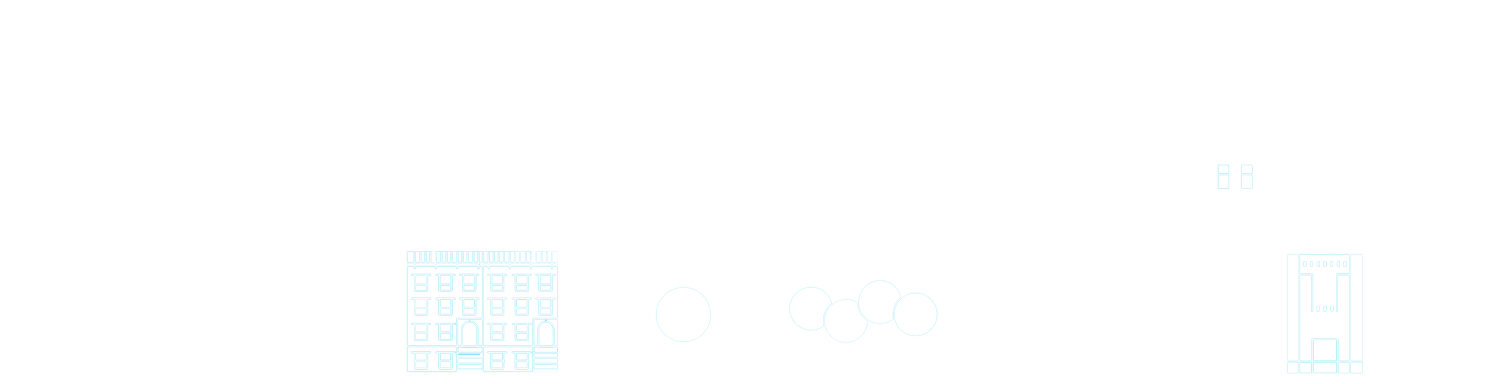
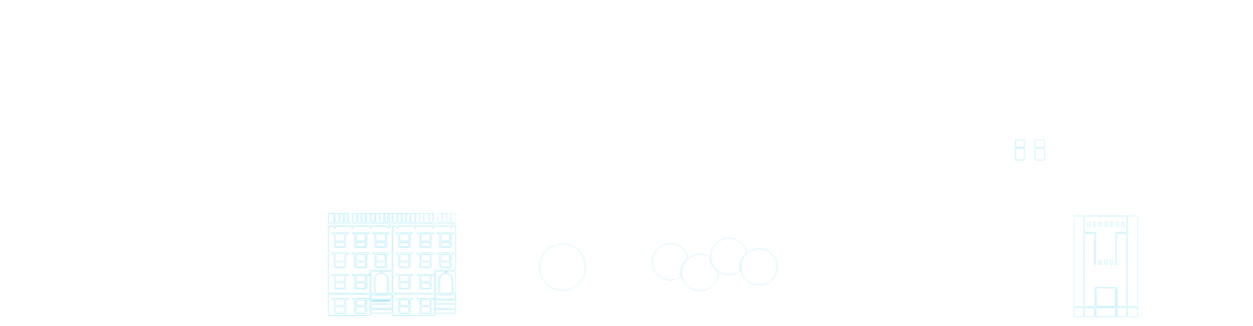
Corregido bug background

diff --git a/docs/styles.73cd79b76adcfca7a7a2.css b/docs/styles.73cd79b76adcfca7a7a2.css
@@ -1,0 +1,1 @@
+body{overflow-x:hidden!important}.city{background-image:url(bg.bcf0d3a65b3835d8e366.png);background-repeat:no-repeat;background-size:contain;background-position-x:center;background-position-y:bottom}.bgf-purple{background-color:#8072c7}.bgf-blue{background-color:#1aa5dc}.bgf-red{background-color:#e64f3a}.bgf-yellow{background-color:#ebc13e}.content{min-height:100vh!important;position:absolute;top:0;left:0;z-index:-10;padding-bottom:20px}@font-face{font-family:"Gotham Light Regular";src:url('Gotham Light Regular.f76e3adf545b3299f643.otf')}@font-face{font-family:"Kalam Bold";src:url(Kalam-Bold.48ff0ed83c465dd63cbb.ttf)}@font-face{font-family:"Kalam Light";src:url(Kalam-Light.146d65d55c0084a5e972.ttf)}@font-face{font-family:"Kalam Regular";src:url(Kalam-Regular.60d781fbca075dc7f5f0.ttf)}.top{z-index:10!important}@-webkit-keyframes bounce{20%,53%,80%,from,to{-webkit-animation-timing-function:cubic-bezier(.215,.61,.355,1);animation-timing-function:cubic-bezier(.215,.61,.355,1);transform:translate3d(0,0,0)}40%,43%{-webkit-animation-timing-function:cubic-bezier(.755,.05,.855,.06);animation-timing-function:cubic-bezier(.755,.05,.855,.06);transform:translate3d(0,-30px,0)}70%{-webkit-animation-timing-function:cubic-bezier(.755,.05,.855,.06);animation-timing-function:cubic-bezier(.755,.05,.855,.06);transform:translate3d(0,-15px,0)}90%{transform:translate3d(0,-4px,0)}}@keyframes bounce{20%,53%,80%,from,to{-webkit-animation-timing-function:cubic-bezier(.215,.61,.355,1);animation-timing-function:cubic-bezier(.215,.61,.355,1);transform:translate3d(0,0,0)}40%,43%{-webkit-animation-timing-function:cubic-bezier(.755,.05,.855,.06);animation-timing-function:cubic-bezier(.755,.05,.855,.06);transform:translate3d(0,-30px,0)}70%{-webkit-animation-timing-function:cubic-bezier(.755,.05,.855,.06);animation-timing-function:cubic-bezier(.755,.05,.855,.06);transform:translate3d(0,-15px,0)}90%{transform:translate3d(0,-4px,0)}}.bounce{-webkit-animation-name:bounce;animation-name:bounce;transform-origin:center bottom}@-webkit-keyframes flash{50%,from,to{opacity:1}25%,75%{opacity:0}}@keyframes flash{50%,from,to{opacity:1}25%,75%{opacity:0}}.flash{-webkit-animation-name:flash;animation-name:flash}@-webkit-keyframes pulse{from,to{transform:scale3d(1,1,1)}50%{transform:scale3d(1.05,1.05,1.05)}}@keyframes pulse{from,to{transform:scale3d(1,1,1)}50%{transform:scale3d(1.05,1.05,1.05)}}.pulse{-webkit-animation-name:pulse;animation-name:pulse}@-webkit-keyframes rubberBand{from,to{transform:scale3d(1,1,1)}30%{transform:scale3d(1.25,.75,1)}40%{transform:scale3d(.75,1.25,1)}50%{transform:scale3d(1.15,.85,1)}65%{transform:scale3d(.95,1.05,1)}75%{transform:scale3d(1.05,.95,1)}}@keyframes rubberBand{from,to{transform:scale3d(1,1,1)}30%{transform:scale3d(1.25,.75,1)}40%{transform:scale3d(.75,1.25,1)}50%{transform:scale3d(1.15,.85,1)}65%{transform:scale3d(.95,1.05,1)}75%{transform:scale3d(1.05,.95,1)}}.rubberBand{-webkit-animation-name:rubberBand;animation-name:rubberBand}@-webkit-keyframes shake{from,to{transform:translate3d(0,0,0)}10%,30%,50%,70%,90%{transform:translate3d(-10px,0,0)}20%,40%,60%,80%{transform:translate3d(10px,0,0)}}@keyframes shake{from,to{transform:translate3d(0,0,0)}10%,30%,50%,70%,90%{transform:translate3d(-10px,0,0)}20%,40%,60%,80%{transform:translate3d(10px,0,0)}}.shake{-webkit-animation-name:shake;animation-name:shake}@-webkit-keyframes headShake{0%{transform:translateX(0)}6.5%{transform:translateX(-6px) rotateY(-9deg)}18.5%{transform:translateX(5px) rotateY(7deg)}31.5%{transform:translateX(-3px) rotateY(-5deg)}43.5%{transform:translateX(2px) rotateY(3deg)}50%{transform:translateX(0)}}@keyframes headShake{0%{transform:translateX(0)}6.5%{transform:translateX(-6px) rotateY(-9deg)}18.5%{transform:translateX(5px) rotateY(7deg)}31.5%{transform:translateX(-3px) rotateY(-5deg)}43.5%{transform:translateX(2px) rotateY(3deg)}50%{transform:translateX(0)}}.headShake{-webkit-animation-timing-function:ease-in-out;animation-timing-function:ease-in-out;-webkit-animation-name:headShake;animation-name:headShake}@-webkit-keyframes swing{20%{transform:rotate3d(0,0,1,15deg)}40%{transform:rotate3d(0,0,1,-10deg)}60%{transform:rotate3d(0,0,1,5deg)}80%{transform:rotate3d(0,0,1,-5deg)}to{transform:rotate3d(0,0,1,0deg)}}@keyframes swing{20%{transform:rotate3d(0,0,1,15deg)}40%{transform:rotate3d(0,0,1,-10deg)}60%{transform:rotate3d(0,0,1,5deg)}80%{transform:rotate3d(0,0,1,-5deg)}to{transform:rotate3d(0,0,1,0deg)}}.swing{transform-origin:top center;-webkit-animation-name:swing;animation-name:swing}@-webkit-keyframes tada{from,to{transform:scale3d(1,1,1)}10%,20%{transform:scale3d(.9,.9,.9) rotate3d(0,0,1,-3deg)}30%,50%,70%,90%{transform:scale3d(1.1,1.1,1.1) rotate3d(0,0,1,3deg)}40%,60%,80%{transform:scale3d(1.1,1.1,1.1) rotate3d(0,0,1,-3deg)}}@keyframes tada{from,to{transform:scale3d(1,1,1)}10%,20%{transform:scale3d(.9,.9,.9) rotate3d(0,0,1,-3deg)}30%,50%,70%,90%{transform:scale3d(1.1,1.1,1.1) rotate3d(0,0,1,3deg)}40%,60%,80%{transform:scale3d(1.1,1.1,1.1) rotate3d(0,0,1,-3deg)}}.tada{-webkit-animation-name:tada;animation-name:tada}@-webkit-keyframes wobble{from,to{transform:translate3d(0,0,0)}15%{transform:translate3d(-25%,0,0) rotate3d(0,0,1,-5deg)}30%{transform:translate3d(20%,0,0) rotate3d(0,0,1,3deg)}45%{transform:translate3d(-15%,0,0) rotate3d(0,0,1,-3deg)}60%{transform:translate3d(10%,0,0) rotate3d(0,0,1,2deg)}75%{transform:translate3d(-5%,0,0) rotate3d(0,0,1,-1deg)}}@keyframes wobble{from,to{transform:translate3d(0,0,0)}15%{transform:translate3d(-25%,0,0) rotate3d(0,0,1,-5deg)}30%{transform:translate3d(20%,0,0) rotate3d(0,0,1,3deg)}45%{transform:translate3d(-15%,0,0) rotate3d(0,0,1,-3deg)}60%{transform:translate3d(10%,0,0) rotate3d(0,0,1,2deg)}75%{transform:translate3d(-5%,0,0) rotate3d(0,0,1,-1deg)}}.wobble{-webkit-animation-name:wobble;animation-name:wobble}@-webkit-keyframes jello{11.1%,from,to{transform:translate3d(0,0,0)}22.2%{transform:skewX(-12.5deg) skewY(-12.5deg)}33.3%{transform:skewX(6.25deg) skewY(6.25deg)}44.4%{transform:skewX(-3.125deg) skewY(-3.125deg)}55.5%{transform:skewX(1.5625deg) skewY(1.5625deg)}66.6%{transform:skewX(-.78125deg) skewY(-.78125deg)}77.7%{transform:skewX(.390625deg) skewY(.390625deg)}88.8%{transform:skewX(-.1953125deg) skewY(-.1953125deg)}}@keyframes jello{11.1%,from,to{transform:translate3d(0,0,0)}22.2%{transform:skewX(-12.5deg) skewY(-12.5deg)}33.3%{transform:skewX(6.25deg) skewY(6.25deg)}44.4%{transform:skewX(-3.125deg) skewY(-3.125deg)}55.5%{transform:skewX(1.5625deg) skewY(1.5625deg)}66.6%{transform:skewX(-.78125deg) skewY(-.78125deg)}77.7%{transform:skewX(.390625deg) skewY(.390625deg)}88.8%{transform:skewX(-.1953125deg) skewY(-.1953125deg)}}.jello{-webkit-animation-name:jello;animation-name:jello;transform-origin:center}@-webkit-keyframes heartBeat{0%,28%,70%{transform:scale(1)}14%,42%{transform:scale(1.3)}}@keyframes heartBeat{0%,28%,70%{transform:scale(1)}14%,42%{transform:scale(1.3)}}.heartBeat{-webkit-animation-name:heartBeat;animation-name:heartBeat;-webkit-animation-duration:1.3s;animation-duration:1.3s;-webkit-animation-timing-function:ease-in-out;animation-timing-function:ease-in-out}@-webkit-keyframes bounceIn{20%,40%,60%,80%,from,to{-webkit-animation-timing-function:cubic-bezier(.215,.61,.355,1);animation-timing-function:cubic-bezier(.215,.61,.355,1)}0%{opacity:0;transform:scale3d(.3,.3,.3)}20%{transform:scale3d(1.1,1.1,1.1)}40%{transform:scale3d(.9,.9,.9)}60%{opacity:1;transform:scale3d(1.03,1.03,1.03)}80%{transform:scale3d(.97,.97,.97)}to{opacity:1;transform:scale3d(1,1,1)}}@keyframes bounceIn{20%,40%,60%,80%,from,to{-webkit-animation-timing-function:cubic-bezier(.215,.61,.355,1);animation-timing-function:cubic-bezier(.215,.61,.355,1)}0%{opacity:0;transform:scale3d(.3,.3,.3)}20%{transform:scale3d(1.1,1.1,1.1)}40%{transform:scale3d(.9,.9,.9)}60%{opacity:1;transform:scale3d(1.03,1.03,1.03)}80%{transform:scale3d(.97,.97,.97)}to{opacity:1;transform:scale3d(1,1,1)}}.bounceIn{-webkit-animation-duration:.75s;animation-duration:.75s;-webkit-animation-name:bounceIn;animation-name:bounceIn}@-webkit-keyframes bounceInDown{60%,75%,90%,from,to{-webkit-animation-timing-function:cubic-bezier(.215,.61,.355,1);animation-timing-function:cubic-bezier(.215,.61,.355,1)}0%{opacity:0;transform:translate3d(0,-3000px,0)}60%{opacity:1;transform:translate3d(0,25px,0)}75%{transform:translate3d(0,-10px,0)}90%{transform:translate3d(0,5px,0)}to{transform:translate3d(0,0,0)}}@keyframes bounceInDown{60%,75%,90%,from,to{-webkit-animation-timing-function:cubic-bezier(.215,.61,.355,1);animation-timing-function:cubic-bezier(.215,.61,.355,1)}0%{opacity:0;transform:translate3d(0,-3000px,0)}60%{opacity:1;transform:translate3d(0,25px,0)}75%{transform:translate3d(0,-10px,0)}90%{transform:translate3d(0,5px,0)}to{transform:translate3d(0,0,0)}}.bounceInDown{-webkit-animation-name:bounceInDown;animation-name:bounceInDown}@-webkit-keyframes bounceInLeft{60%,75%,90%,from,to{-webkit-animation-timing-function:cubic-bezier(.215,.61,.355,1);animation-timing-function:cubic-bezier(.215,.61,.355,1)}0%{opacity:0;transform:translate3d(-3000px,0,0)}60%{opacity:1;transform:translate3d(25px,0,0)}75%{transform:translate3d(-10px,0,0)}90%{transform:translate3d(5px,0,0)}to{transform:translate3d(0,0,0)}}@keyframes bounceInLeft{60%,75%,90%,from,to{-webkit-animation-timing-function:cubic-bezier(.215,.61,.355,1);animation-timing-function:cubic-bezier(.215,.61,.355,1)}0%{opacity:0;transform:translate3d(-3000px,0,0)}60%{opacity:1;transform:translate3d(25px,0,0)}75%{transform:translate3d(-10px,0,0)}90%{transform:translate3d(5px,0,0)}to{transform:translate3d(0,0,0)}}.bounceInLeft{-webkit-animation-name:bounceInLeft;animation-name:bounceInLeft}@-webkit-keyframes bounceInRight{60%,75%,90%,from,to{-webkit-animation-timing-function:cubic-bezier(.215,.61,.355,1);animation-timing-function:cubic-bezier(.215,.61,.355,1)}from{opacity:0;transform:translate3d(3000px,0,0)}60%{opacity:1;transform:translate3d(-25px,0,0)}75%{transform:translate3d(10px,0,0)}90%{transform:translate3d(-5px,0,0)}to{transform:translate3d(0,0,0)}}@keyframes bounceInRight{60%,75%,90%,from,to{-webkit-animation-timing-function:cubic-bezier(.215,.61,.355,1);animation-timing-function:cubic-bezier(.215,.61,.355,1)}from{opacity:0;transform:translate3d(3000px,0,0)}60%{opacity:1;transform:translate3d(-25px,0,0)}75%{transform:translate3d(10px,0,0)}90%{transform:translate3d(-5px,0,0)}to{transform:translate3d(0,0,0)}}.bounceInRight{-webkit-animation-name:bounceInRight;animation-name:bounceInRight}@-webkit-keyframes bounceInUp{60%,75%,90%,from,to{-webkit-animation-timing-function:cubic-bezier(.215,.61,.355,1);animation-timing-function:cubic-bezier(.215,.61,.355,1)}from{opacity:0;transform:translate3d(0,3000px,0)}60%{opacity:1;transform:translate3d(0,-20px,0)}75%{transform:translate3d(0,10px,0)}90%{transform:translate3d(0,-5px,0)}to{transform:translate3d(0,0,0)}}@keyframes bounceInUp{60%,75%,90%,from,to{-webkit-animation-timing-function:cubic-bezier(.215,.61,.355,1);animation-timing-function:cubic-bezier(.215,.61,.355,1)}from{opacity:0;transform:translate3d(0,3000px,0)}60%{opacity:1;transform:translate3d(0,-20px,0)}75%{transform:translate3d(0,10px,0)}90%{transform:translate3d(0,-5px,0)}to{transform:translate3d(0,0,0)}}.bounceInUp{-webkit-animation-name:bounceInUp;animation-name:bounceInUp}@-webkit-keyframes bounceOut{20%{transform:scale3d(.9,.9,.9)}50%,55%{opacity:1;transform:scale3d(1.1,1.1,1.1)}to{opacity:0;transform:scale3d(.3,.3,.3)}}@keyframes bounceOut{20%{transform:scale3d(.9,.9,.9)}50%,55%{opacity:1;transform:scale3d(1.1,1.1,1.1)}to{opacity:0;transform:scale3d(.3,.3,.3)}}.bounceOut{-webkit-animation-duration:.75s;animation-duration:.75s;-webkit-animation-name:bounceOut;animation-name:bounceOut}@-webkit-keyframes bounceOutDown{20%{transform:translate3d(0,10px,0)}40%,45%{opacity:1;transform:translate3d(0,-20px,0)}to{opacity:0;transform:translate3d(0,2000px,0)}}@keyframes bounceOutDown{20%{transform:translate3d(0,10px,0)}40%,45%{opacity:1;transform:translate3d(0,-20px,0)}to{opacity:0;transform:translate3d(0,2000px,0)}}.bounceOutDown{-webkit-animation-name:bounceOutDown;animation-name:bounceOutDown}@-webkit-keyframes bounceOutLeft{20%{opacity:1;transform:translate3d(20px,0,0)}to{opacity:0;transform:translate3d(-2000px,0,0)}}@keyframes bounceOutLeft{20%{opacity:1;transform:translate3d(20px,0,0)}to{opacity:0;transform:translate3d(-2000px,0,0)}}.bounceOutLeft{-webkit-animation-name:bounceOutLeft;animation-name:bounceOutLeft}@-webkit-keyframes bounceOutRight{20%{opacity:1;transform:translate3d(-20px,0,0)}to{opacity:0;transform:translate3d(2000px,0,0)}}@keyframes bounceOutRight{20%{opacity:1;transform:translate3d(-20px,0,0)}to{opacity:0;transform:translate3d(2000px,0,0)}}.bounceOutRight{-webkit-animation-name:bounceOutRight;animation-name:bounceOutRight}@-webkit-keyframes bounceOutUp{20%{transform:translate3d(0,-10px,0)}40%,45%{opacity:1;transform:translate3d(0,20px,0)}to{opacity:0;transform:translate3d(0,-2000px,0)}}@keyframes bounceOutUp{20%{transform:translate3d(0,-10px,0)}40%,45%{opacity:1;transform:translate3d(0,20px,0)}to{opacity:0;transform:translate3d(0,-2000px,0)}}.bounceOutUp{-webkit-animation-name:bounceOutUp;animation-name:bounceOutUp}@-webkit-keyframes fadeIn{from{opacity:0}to{opacity:1}}@keyframes fadeIn{from{opacity:0}to{opacity:1}}.fadeIn{-webkit-animation-name:fadeIn;animation-name:fadeIn}@-webkit-keyframes fadeInDown{from{opacity:0;transform:translate3d(0,-100%,0)}to{opacity:1;transform:translate3d(0,0,0)}}@keyframes fadeInDown{from{opacity:0;transform:translate3d(0,-100%,0)}to{opacity:1;transform:translate3d(0,0,0)}}.fadeInDown{-webkit-animation-name:fadeInDown;animation-name:fadeInDown}@-webkit-keyframes fadeInDownBig{from{opacity:0;transform:translate3d(0,-2000px,0)}to{opacity:1;transform:translate3d(0,0,0)}}@keyframes fadeInDownBig{from{opacity:0;transform:translate3d(0,-2000px,0)}to{opacity:1;transform:translate3d(0,0,0)}}.fadeInDownBig{-webkit-animation-name:fadeInDownBig;animation-name:fadeInDownBig}@-webkit-keyframes fadeInLeft{from{opacity:0;transform:translate3d(-100%,0,0)}to{opacity:1;transform:translate3d(0,0,0)}}@keyframes fadeInLeft{from{opacity:0;transform:translate3d(-100%,0,0)}to{opacity:1;transform:translate3d(0,0,0)}}.fadeInLeft{-webkit-animation-name:fadeInLeft;animation-name:fadeInLeft}@-webkit-keyframes fadeInLeftBig{from{opacity:0;transform:translate3d(-2000px,0,0)}to{opacity:1;transform:translate3d(0,0,0)}}@keyframes fadeInLeftBig{from{opacity:0;transform:translate3d(-2000px,0,0)}to{opacity:1;transform:translate3d(0,0,0)}}.fadeInLeftBig{-webkit-animation-name:fadeInLeftBig;animation-name:fadeInLeftBig}@-webkit-keyframes fadeInRight{from{opacity:0;transform:translate3d(100%,0,0)}to{opacity:1;transform:translate3d(0,0,0)}}@keyframes fadeInRight{from{opacity:0;transform:translate3d(100%,0,0)}to{opacity:1;transform:translate3d(0,0,0)}}.fadeInRight{-webkit-animation-name:fadeInRight;animation-name:fadeInRight}@-webkit-keyframes fadeInRightBig{from{opacity:0;transform:translate3d(2000px,0,0)}to{opacity:1;transform:translate3d(0,0,0)}}@keyframes fadeInRightBig{from{opacity:0;transform:translate3d(2000px,0,0)}to{opacity:1;transform:translate3d(0,0,0)}}.fadeInRightBig{-webkit-animation-name:fadeInRightBig;animation-name:fadeInRightBig}@-webkit-keyframes fadeInUp{from{opacity:0;transform:translate3d(0,100%,0)}to{opacity:1;transform:translate3d(0,0,0)}}@keyframes fadeInUp{from{opacity:0;transform:translate3d(0,100%,0)}to{opacity:1;transform:translate3d(0,0,0)}}.fadeInUp{-webkit-animation-name:fadeInUp;animation-name:fadeInUp}@-webkit-keyframes fadeInUpBig{from{opacity:0;transform:translate3d(0,2000px,0)}to{opacity:1;transform:translate3d(0,0,0)}}@keyframes fadeInUpBig{from{opacity:0;transform:translate3d(0,2000px,0)}to{opacity:1;transform:translate3d(0,0,0)}}.fadeInUpBig{-webkit-animation-name:fadeInUpBig;animation-name:fadeInUpBig}@-webkit-keyframes fadeOut{from{opacity:1}to{opacity:0}}@keyframes fadeOut{from{opacity:1}to{opacity:0}}.fadeOut{-webkit-animation-name:fadeOut;animation-name:fadeOut}@-webkit-keyframes fadeOutDown{from{opacity:1}to{opacity:0;transform:translate3d(0,100%,0)}}@keyframes fadeOutDown{from{opacity:1}to{opacity:0;transform:translate3d(0,100%,0)}}.fadeOutDown{-webkit-animation-name:fadeOutDown;animation-name:fadeOutDown}@-webkit-keyframes fadeOutDownBig{from{opacity:1}to{opacity:0;transform:translate3d(0,2000px,0)}}@keyframes fadeOutDownBig{from{opacity:1}to{opacity:0;transform:translate3d(0,2000px,0)}}.fadeOutDownBig{-webkit-animation-name:fadeOutDownBig;animation-name:fadeOutDownBig}@-webkit-keyframes fadeOutLeft{from{opacity:1}to{opacity:0;transform:translate3d(-100%,0,0)}}@keyframes fadeOutLeft{from{opacity:1}to{opacity:0;transform:translate3d(-100%,0,0)}}.fadeOutLeft{-webkit-animation-name:fadeOutLeft;animation-name:fadeOutLeft}@-webkit-keyframes fadeOutLeftBig{from{opacity:1}to{opacity:0;transform:translate3d(-2000px,0,0)}}@keyframes fadeOutLeftBig{from{opacity:1}to{opacity:0;transform:translate3d(-2000px,0,0)}}.fadeOutLeftBig{-webkit-animation-name:fadeOutLeftBig;animation-name:fadeOutLeftBig}@-webkit-keyframes fadeOutRight{from{opacity:1}to{opacity:0;transform:translate3d(100%,0,0)}}@keyframes fadeOutRight{from{opacity:1}to{opacity:0;transform:translate3d(100%,0,0)}}.fadeOutRight{-webkit-animation-name:fadeOutRight;animation-name:fadeOutRight}@-webkit-keyframes fadeOutRightBig{from{opacity:1}to{opacity:0;transform:translate3d(2000px,0,0)}}@keyframes fadeOutRightBig{from{opacity:1}to{opacity:0;transform:translate3d(2000px,0,0)}}.fadeOutRightBig{-webkit-animation-name:fadeOutRightBig;animation-name:fadeOutRightBig}@-webkit-keyframes fadeOutUp{from{opacity:1}to{opacity:0;transform:translate3d(0,-100%,0)}}@keyframes fadeOutUp{from{opacity:1}to{opacity:0;transform:translate3d(0,-100%,0)}}.fadeOutUp{-webkit-animation-name:fadeOutUp;animation-name:fadeOutUp}@-webkit-keyframes fadeOutUpBig{from{opacity:1}to{opacity:0;transform:translate3d(0,-2000px,0)}}@keyframes fadeOutUpBig{from{opacity:1}to{opacity:0;transform:translate3d(0,-2000px,0)}}.fadeOutUpBig{-webkit-animation-name:fadeOutUpBig;animation-name:fadeOutUpBig}@-webkit-keyframes flip{from{transform:perspective(400px) scale3d(1,1,1) translate3d(0,0,0) rotate3d(0,1,0,-360deg);-webkit-animation-timing-function:ease-out;animation-timing-function:ease-out}40%{transform:perspective(400px) scale3d(1,1,1) translate3d(0,0,150px) rotate3d(0,1,0,-190deg);-webkit-animation-timing-function:ease-out;animation-timing-function:ease-out}50%{transform:perspective(400px) scale3d(1,1,1) translate3d(0,0,150px) rotate3d(0,1,0,-170deg);-webkit-animation-timing-function:ease-in;animation-timing-function:ease-in}80%{transform:perspective(400px) scale3d(.95,.95,.95) translate3d(0,0,0) rotate3d(0,1,0,0deg);-webkit-animation-timing-function:ease-in;animation-timing-function:ease-in}to{transform:perspective(400px) scale3d(1,1,1) translate3d(0,0,0) rotate3d(0,1,0,0deg);-webkit-animation-timing-function:ease-in;animation-timing-function:ease-in}}@keyframes flip{from{transform:perspective(400px) scale3d(1,1,1) translate3d(0,0,0) rotate3d(0,1,0,-360deg);-webkit-animation-timing-function:ease-out;animation-timing-function:ease-out}40%{transform:perspective(400px) scale3d(1,1,1) translate3d(0,0,150px) rotate3d(0,1,0,-190deg);-webkit-animation-timing-function:ease-out;animation-timing-function:ease-out}50%{transform:perspective(400px) scale3d(1,1,1) translate3d(0,0,150px) rotate3d(0,1,0,-170deg);-webkit-animation-timing-function:ease-in;animation-timing-function:ease-in}80%{transform:perspective(400px) scale3d(.95,.95,.95) translate3d(0,0,0) rotate3d(0,1,0,0deg);-webkit-animation-timing-function:ease-in;animation-timing-function:ease-in}to{transform:perspective(400px) scale3d(1,1,1) translate3d(0,0,0) rotate3d(0,1,0,0deg);-webkit-animation-timing-function:ease-in;animation-timing-function:ease-in}}.animated.flip{-webkit-backface-visibility:visible;backface-visibility:visible;-webkit-animation-name:flip;animation-name:flip}@-webkit-keyframes flipInX{from{transform:perspective(400px) rotate3d(1,0,0,90deg);-webkit-animation-timing-function:ease-in;animation-timing-function:ease-in;opacity:0}40%{transform:perspective(400px) rotate3d(1,0,0,-20deg);-webkit-animation-timing-function:ease-in;animation-timing-function:ease-in}60%{transform:perspective(400px) rotate3d(1,0,0,10deg);opacity:1}80%{transform:perspective(400px) rotate3d(1,0,0,-5deg)}to{transform:perspective(400px)}}@keyframes flipInX{from{transform:perspective(400px) rotate3d(1,0,0,90deg);-webkit-animation-timing-function:ease-in;animation-timing-function:ease-in;opacity:0}40%{transform:perspective(400px) rotate3d(1,0,0,-20deg);-webkit-animation-timing-function:ease-in;animation-timing-function:ease-in}60%{transform:perspective(400px) rotate3d(1,0,0,10deg);opacity:1}80%{transform:perspective(400px) rotate3d(1,0,0,-5deg)}to{transform:perspective(400px)}}.flipInX{-webkit-backface-visibility:visible!important;backface-visibility:visible!important;-webkit-animation-name:flipInX;animation-name:flipInX}@-webkit-keyframes flipInY{from{transform:perspective(400px) rotate3d(0,1,0,90deg);-webkit-animation-timing-function:ease-in;animation-timing-function:ease-in;opacity:0}40%{transform:perspective(400px) rotate3d(0,1,0,-20deg);-webkit-animation-timing-function:ease-in;animation-timing-function:ease-in}60%{transform:perspective(400px) rotate3d(0,1,0,10deg);opacity:1}80%{transform:perspective(400px) rotate3d(0,1,0,-5deg)}to{transform:perspective(400px)}}@keyframes flipInY{from{transform:perspective(400px) rotate3d(0,1,0,90deg);-webkit-animation-timing-function:ease-in;animation-timing-function:ease-in;opacity:0}40%{transform:perspective(400px) rotate3d(0,1,0,-20deg);-webkit-animation-timing-function:ease-in;animation-timing-function:ease-in}60%{transform:perspective(400px) rotate3d(0,1,0,10deg);opacity:1}80%{transform:perspective(400px) rotate3d(0,1,0,-5deg)}to{transform:perspective(400px)}}.flipInY{-webkit-backface-visibility:visible!important;backface-visibility:visible!important;-webkit-animation-name:flipInY;animation-name:flipInY}@-webkit-keyframes flipOutX{from{transform:perspective(400px)}30%{transform:perspective(400px) rotate3d(1,0,0,-20deg);opacity:1}to{transform:perspective(400px) rotate3d(1,0,0,90deg);opacity:0}}@keyframes flipOutX{from{transform:perspective(400px)}30%{transform:perspective(400px) rotate3d(1,0,0,-20deg);opacity:1}to{transform:perspective(400px) rotate3d(1,0,0,90deg);opacity:0}}.flipOutX{-webkit-animation-duration:.75s;animation-duration:.75s;-webkit-animation-name:flipOutX;animation-name:flipOutX;-webkit-backface-visibility:visible!important;backface-visibility:visible!important}@-webkit-keyframes flipOutY{from{transform:perspective(400px)}30%{transform:perspective(400px) rotate3d(0,1,0,-15deg);opacity:1}to{transform:perspective(400px) rotate3d(0,1,0,90deg);opacity:0}}@keyframes flipOutY{from{transform:perspective(400px)}30%{transform:perspective(400px) rotate3d(0,1,0,-15deg);opacity:1}to{transform:perspective(400px) rotate3d(0,1,0,90deg);opacity:0}}.flipOutY{-webkit-animation-duration:.75s;animation-duration:.75s;-webkit-backface-visibility:visible!important;backface-visibility:visible!important;-webkit-animation-name:flipOutY;animation-name:flipOutY}@-webkit-keyframes lightSpeedIn{from{transform:translate3d(100%,0,0) skewX(-30deg);opacity:0}60%{transform:skewX(20deg);opacity:1}80%{transform:skewX(-5deg)}to{transform:translate3d(0,0,0)}}@keyframes lightSpeedIn{from{transform:translate3d(100%,0,0) skewX(-30deg);opacity:0}60%{transform:skewX(20deg);opacity:1}80%{transform:skewX(-5deg)}to{transform:translate3d(0,0,0)}}.lightSpeedIn{-webkit-animation-name:lightSpeedIn;animation-name:lightSpeedIn;-webkit-animation-timing-function:ease-out;animation-timing-function:ease-out}@-webkit-keyframes lightSpeedOut{from{opacity:1}to{transform:translate3d(100%,0,0) skewX(30deg);opacity:0}}@keyframes lightSpeedOut{from{opacity:1}to{transform:translate3d(100%,0,0) skewX(30deg);opacity:0}}.lightSpeedOut{-webkit-animation-name:lightSpeedOut;animation-name:lightSpeedOut;-webkit-animation-timing-function:ease-in;animation-timing-function:ease-in}@-webkit-keyframes rotateIn{from{transform-origin:center;transform:rotate3d(0,0,1,-200deg);opacity:0}to{transform-origin:center;transform:translate3d(0,0,0);opacity:1}}@keyframes rotateIn{from{transform-origin:center;transform:rotate3d(0,0,1,-200deg);opacity:0}to{transform-origin:center;transform:translate3d(0,0,0);opacity:1}}.rotateIn{-webkit-animation-name:rotateIn;animation-name:rotateIn}@-webkit-keyframes rotateInDownLeft{from{transform-origin:left bottom;transform:rotate3d(0,0,1,-45deg);opacity:0}to{transform-origin:left bottom;transform:translate3d(0,0,0);opacity:1}}@keyframes rotateInDownLeft{from{transform-origin:left bottom;transform:rotate3d(0,0,1,-45deg);opacity:0}to{transform-origin:left bottom;transform:translate3d(0,0,0);opacity:1}}.rotateInDownLeft{-webkit-animation-name:rotateInDownLeft;animation-name:rotateInDownLeft}@-webkit-keyframes rotateInDownRight{from{transform-origin:right bottom;transform:rotate3d(0,0,1,45deg);opacity:0}to{transform-origin:right bottom;transform:translate3d(0,0,0);opacity:1}}@keyframes rotateInDownRight{from{transform-origin:right bottom;transform:rotate3d(0,0,1,45deg);opacity:0}to{transform-origin:right bottom;transform:translate3d(0,0,0);opacity:1}}.rotateInDownRight{-webkit-animation-name:rotateInDownRight;animation-name:rotateInDownRight}@-webkit-keyframes rotateInUpLeft{from{transform-origin:left bottom;transform:rotate3d(0,0,1,45deg);opacity:0}to{transform-origin:left bottom;transform:translate3d(0,0,0);opacity:1}}@keyframes rotateInUpLeft{from{transform-origin:left bottom;transform:rotate3d(0,0,1,45deg);opacity:0}to{transform-origin:left bottom;transform:translate3d(0,0,0);opacity:1}}.rotateInUpLeft{-webkit-animation-name:rotateInUpLeft;animation-name:rotateInUpLeft}@-webkit-keyframes rotateInUpRight{from{transform-origin:right bottom;transform:rotate3d(0,0,1,-90deg);opacity:0}to{transform-origin:right bottom;transform:translate3d(0,0,0);opacity:1}}@keyframes rotateInUpRight{from{transform-origin:right bottom;transform:rotate3d(0,0,1,-90deg);opacity:0}to{transform-origin:right bottom;transform:translate3d(0,0,0);opacity:1}}.rotateInUpRight{-webkit-animation-name:rotateInUpRight;animation-name:rotateInUpRight}@-webkit-keyframes rotateOut{from{transform-origin:center;opacity:1}to{transform-origin:center;transform:rotate3d(0,0,1,200deg);opacity:0}}@keyframes rotateOut{from{transform-origin:center;opacity:1}to{transform-origin:center;transform:rotate3d(0,0,1,200deg);opacity:0}}.rotateOut{-webkit-animation-name:rotateOut;animation-name:rotateOut}@-webkit-keyframes rotateOutDownLeft{from{transform-origin:left bottom;opacity:1}to{transform-origin:left bottom;transform:rotate3d(0,0,1,45deg);opacity:0}}@keyframes rotateOutDownLeft{from{transform-origin:left bottom;opacity:1}to{transform-origin:left bottom;transform:rotate3d(0,0,1,45deg);opacity:0}}.rotateOutDownLeft{-webkit-animation-name:rotateOutDownLeft;animation-name:rotateOutDownLeft}@-webkit-keyframes rotateOutDownRight{from{transform-origin:right bottom;opacity:1}to{transform-origin:right bottom;transform:rotate3d(0,0,1,-45deg);opacity:0}}@keyframes rotateOutDownRight{from{transform-origin:right bottom;opacity:1}to{transform-origin:right bottom;transform:rotate3d(0,0,1,-45deg);opacity:0}}.rotateOutDownRight{-webkit-animation-name:rotateOutDownRight;animation-name:rotateOutDownRight}@-webkit-keyframes rotateOutUpLeft{from{transform-origin:left bottom;opacity:1}to{transform-origin:left bottom;transform:rotate3d(0,0,1,-45deg);opacity:0}}@keyframes rotateOutUpLeft{from{transform-origin:left bottom;opacity:1}to{transform-origin:left bottom;transform:rotate3d(0,0,1,-45deg);opacity:0}}.rotateOutUpLeft{-webkit-animation-name:rotateOutUpLeft;animation-name:rotateOutUpLeft}@-webkit-keyframes rotateOutUpRight{from{transform-origin:right bottom;opacity:1}to{transform-origin:right bottom;transform:rotate3d(0,0,1,90deg);opacity:0}}@keyframes rotateOutUpRight{from{transform-origin:right bottom;opacity:1}to{transform-origin:right bottom;transform:rotate3d(0,0,1,90deg);opacity:0}}.rotateOutUpRight{-webkit-animation-name:rotateOutUpRight;animation-name:rotateOutUpRight}@-webkit-keyframes hinge{0%{transform-origin:top left;-webkit-animation-timing-function:ease-in-out;animation-timing-function:ease-in-out}20%,60%{transform:rotate3d(0,0,1,80deg);transform-origin:top left;-webkit-animation-timing-function:ease-in-out;animation-timing-function:ease-in-out}40%,80%{transform:rotate3d(0,0,1,60deg);transform-origin:top left;-webkit-animation-timing-function:ease-in-out;animation-timing-function:ease-in-out;opacity:1}to{transform:translate3d(0,700px,0);opacity:0}}@keyframes hinge{0%{transform-origin:top left;-webkit-animation-timing-function:ease-in-out;animation-timing-function:ease-in-out}20%,60%{transform:rotate3d(0,0,1,80deg);transform-origin:top left;-webkit-animation-timing-function:ease-in-out;animation-timing-function:ease-in-out}40%,80%{transform:rotate3d(0,0,1,60deg);transform-origin:top left;-webkit-animation-timing-function:ease-in-out;animation-timing-function:ease-in-out;opacity:1}to{transform:translate3d(0,700px,0);opacity:0}}.hinge{-webkit-animation-duration:2s;animation-duration:2s;-webkit-animation-name:hinge;animation-name:hinge}@-webkit-keyframes jackInTheBox{from{opacity:0;transform:scale(.1) rotate(30deg);transform-origin:center bottom}50%{transform:rotate(-10deg)}70%{transform:rotate(3deg)}to{opacity:1;transform:scale(1)}}@keyframes jackInTheBox{from{opacity:0;transform:scale(.1) rotate(30deg);transform-origin:center bottom}50%{transform:rotate(-10deg)}70%{transform:rotate(3deg)}to{opacity:1;transform:scale(1)}}.jackInTheBox{-webkit-animation-name:jackInTheBox;animation-name:jackInTheBox}@-webkit-keyframes rollIn{from{opacity:0;transform:translate3d(-100%,0,0) rotate3d(0,0,1,-120deg)}to{opacity:1;transform:translate3d(0,0,0)}}@keyframes rollIn{from{opacity:0;transform:translate3d(-100%,0,0) rotate3d(0,0,1,-120deg)}to{opacity:1;transform:translate3d(0,0,0)}}.rollIn{-webkit-animation-name:rollIn;animation-name:rollIn}@-webkit-keyframes rollOut{from{opacity:1}to{opacity:0;transform:translate3d(100%,0,0) rotate3d(0,0,1,120deg)}}@keyframes rollOut{from{opacity:1}to{opacity:0;transform:translate3d(100%,0,0) rotate3d(0,0,1,120deg)}}.rollOut{-webkit-animation-name:rollOut;animation-name:rollOut}@-webkit-keyframes zoomIn{from{opacity:0;transform:scale3d(.3,.3,.3)}50%{opacity:1}}@keyframes zoomIn{from{opacity:0;transform:scale3d(.3,.3,.3)}50%{opacity:1}}.zoomIn{-webkit-animation-name:zoomIn;animation-name:zoomIn}@-webkit-keyframes zoomInDown{from{opacity:0;transform:scale3d(.1,.1,.1) translate3d(0,-1000px,0);-webkit-animation-timing-function:cubic-bezier(.55,.055,.675,.19);animation-timing-function:cubic-bezier(.55,.055,.675,.19)}60%{opacity:1;transform:scale3d(.475,.475,.475) translate3d(0,60px,0);-webkit-animation-timing-function:cubic-bezier(.175,.885,.32,1);animation-timing-function:cubic-bezier(.175,.885,.32,1)}}@keyframes zoomInDown{from{opacity:0;transform:scale3d(.1,.1,.1) translate3d(0,-1000px,0);-webkit-animation-timing-function:cubic-bezier(.55,.055,.675,.19);animation-timing-function:cubic-bezier(.55,.055,.675,.19)}60%{opacity:1;transform:scale3d(.475,.475,.475) translate3d(0,60px,0);-webkit-animation-timing-function:cubic-bezier(.175,.885,.32,1);animation-timing-function:cubic-bezier(.175,.885,.32,1)}}.zoomInDown{-webkit-animation-name:zoomInDown;animation-name:zoomInDown}@-webkit-keyframes zoomInLeft{from{opacity:0;transform:scale3d(.1,.1,.1) translate3d(-1000px,0,0);-webkit-animation-timing-function:cubic-bezier(.55,.055,.675,.19);animation-timing-function:cubic-bezier(.55,.055,.675,.19)}60%{opacity:1;transform:scale3d(.475,.475,.475) translate3d(10px,0,0);-webkit-animation-timing-function:cubic-bezier(.175,.885,.32,1);animation-timing-function:cubic-bezier(.175,.885,.32,1)}}@keyframes zoomInLeft{from{opacity:0;transform:scale3d(.1,.1,.1) translate3d(-1000px,0,0);-webkit-animation-timing-function:cubic-bezier(.55,.055,.675,.19);animation-timing-function:cubic-bezier(.55,.055,.675,.19)}60%{opacity:1;transform:scale3d(.475,.475,.475) translate3d(10px,0,0);-webkit-animation-timing-function:cubic-bezier(.175,.885,.32,1);animation-timing-function:cubic-bezier(.175,.885,.32,1)}}.zoomInLeft{-webkit-animation-name:zoomInLeft;animation-name:zoomInLeft}@-webkit-keyframes zoomInRight{from{opacity:0;transform:scale3d(.1,.1,.1) translate3d(1000px,0,0);-webkit-animation-timing-function:cubic-bezier(.55,.055,.675,.19);animation-timing-function:cubic-bezier(.55,.055,.675,.19)}60%{opacity:1;transform:scale3d(.475,.475,.475) translate3d(-10px,0,0);-webkit-animation-timing-function:cubic-bezier(.175,.885,.32,1);animation-timing-function:cubic-bezier(.175,.885,.32,1)}}@keyframes zoomInRight{from{opacity:0;transform:scale3d(.1,.1,.1) translate3d(1000px,0,0);-webkit-animation-timing-function:cubic-bezier(.55,.055,.675,.19);animation-timing-function:cubic-bezier(.55,.055,.675,.19)}60%{opacity:1;transform:scale3d(.475,.475,.475) translate3d(-10px,0,0);-webkit-animation-timing-function:cubic-bezier(.175,.885,.32,1);animation-timing-function:cubic-bezier(.175,.885,.32,1)}}.zoomInRight{-webkit-animation-name:zoomInRight;animation-name:zoomInRight}@-webkit-keyframes zoomInUp{from{opacity:0;transform:scale3d(.1,.1,.1) translate3d(0,1000px,0);-webkit-animation-timing-function:cubic-bezier(.55,.055,.675,.19);animation-timing-function:cubic-bezier(.55,.055,.675,.19)}60%{opacity:1;transform:scale3d(.475,.475,.475) translate3d(0,-60px,0);-webkit-animation-timing-function:cubic-bezier(.175,.885,.32,1);animation-timing-function:cubic-bezier(.175,.885,.32,1)}}@keyframes zoomInUp{from{opacity:0;transform:scale3d(.1,.1,.1) translate3d(0,1000px,0);-webkit-animation-timing-function:cubic-bezier(.55,.055,.675,.19);animation-timing-function:cubic-bezier(.55,.055,.675,.19)}60%{opacity:1;transform:scale3d(.475,.475,.475) translate3d(0,-60px,0);-webkit-animation-timing-function:cubic-bezier(.175,.885,.32,1);animation-timing-function:cubic-bezier(.175,.885,.32,1)}}.zoomInUp{-webkit-animation-name:zoomInUp;animation-name:zoomInUp}@-webkit-keyframes zoomOut{from{opacity:1}50%{opacity:0;transform:scale3d(.3,.3,.3)}to{opacity:0}}@keyframes zoomOut{from{opacity:1}50%{opacity:0;transform:scale3d(.3,.3,.3)}to{opacity:0}}.zoomOut{-webkit-animation-name:zoomOut;animation-name:zoomOut}@-webkit-keyframes zoomOutDown{40%{opacity:1;transform:scale3d(.475,.475,.475) translate3d(0,-60px,0);-webkit-animation-timing-function:cubic-bezier(.55,.055,.675,.19);animation-timing-function:cubic-bezier(.55,.055,.675,.19)}to{opacity:0;transform:scale3d(.1,.1,.1) translate3d(0,2000px,0);transform-origin:center bottom;-webkit-animation-timing-function:cubic-bezier(.175,.885,.32,1);animation-timing-function:cubic-bezier(.175,.885,.32,1)}}@keyframes zoomOutDown{40%{opacity:1;transform:scale3d(.475,.475,.475) translate3d(0,-60px,0);-webkit-animation-timing-function:cubic-bezier(.55,.055,.675,.19);animation-timing-function:cubic-bezier(.55,.055,.675,.19)}to{opacity:0;transform:scale3d(.1,.1,.1) translate3d(0,2000px,0);transform-origin:center bottom;-webkit-animation-timing-function:cubic-bezier(.175,.885,.32,1);animation-timing-function:cubic-bezier(.175,.885,.32,1)}}.zoomOutDown{-webkit-animation-name:zoomOutDown;animation-name:zoomOutDown}@-webkit-keyframes zoomOutLeft{40%{opacity:1;transform:scale3d(.475,.475,.475) translate3d(42px,0,0)}to{opacity:0;transform:scale(.1) translate3d(-2000px,0,0);transform-origin:left center}}@keyframes zoomOutLeft{40%{opacity:1;transform:scale3d(.475,.475,.475) translate3d(42px,0,0)}to{opacity:0;transform:scale(.1) translate3d(-2000px,0,0);transform-origin:left center}}.zoomOutLeft{-webkit-animation-name:zoomOutLeft;animation-name:zoomOutLeft}@-webkit-keyframes zoomOutRight{40%{opacity:1;transform:scale3d(.475,.475,.475) translate3d(-42px,0,0)}to{opacity:0;transform:scale(.1) translate3d(2000px,0,0);transform-origin:right center}}@keyframes zoomOutRight{40%{opacity:1;transform:scale3d(.475,.475,.475) translate3d(-42px,0,0)}to{opacity:0;transform:scale(.1) translate3d(2000px,0,0);transform-origin:right center}}.zoomOutRight{-webkit-animation-name:zoomOutRight;animation-name:zoomOutRight}@-webkit-keyframes zoomOutUp{40%{opacity:1;transform:scale3d(.475,.475,.475) translate3d(0,60px,0);-webkit-animation-timing-function:cubic-bezier(.55,.055,.675,.19);animation-timing-function:cubic-bezier(.55,.055,.675,.19)}to{opacity:0;transform:scale3d(.1,.1,.1) translate3d(0,-2000px,0);transform-origin:center bottom;-webkit-animation-timing-function:cubic-bezier(.175,.885,.32,1);animation-timing-function:cubic-bezier(.175,.885,.32,1)}}@keyframes zoomOutUp{40%{opacity:1;transform:scale3d(.475,.475,.475) translate3d(0,60px,0);-webkit-animation-timing-function:cubic-bezier(.55,.055,.675,.19);animation-timing-function:cubic-bezier(.55,.055,.675,.19)}to{opacity:0;transform:scale3d(.1,.1,.1) translate3d(0,-2000px,0);transform-origin:center bottom;-webkit-animation-timing-function:cubic-bezier(.175,.885,.32,1);animation-timing-function:cubic-bezier(.175,.885,.32,1)}}.zoomOutUp{-webkit-animation-name:zoomOutUp;animation-name:zoomOutUp}@-webkit-keyframes slideInDown{from{transform:translate3d(0,-100%,0);visibility:visible}to{transform:translate3d(0,0,0)}}@keyframes slideInDown{from{transform:translate3d(0,-100%,0);visibility:visible}to{transform:translate3d(0,0,0)}}.slideInDown{-webkit-animation-name:slideInDown;animation-name:slideInDown}@-webkit-keyframes slideInLeft{from{transform:translate3d(-100%,0,0);visibility:visible}to{transform:translate3d(0,0,0)}}@keyframes slideInLeft{from{transform:translate3d(-100%,0,0);visibility:visible}to{transform:translate3d(0,0,0)}}.slideInLeft{-webkit-animation-name:slideInLeft;animation-name:slideInLeft}@-webkit-keyframes slideInRight{from{transform:translate3d(100%,0,0);visibility:visible}to{transform:translate3d(0,0,0)}}@keyframes slideInRight{from{transform:translate3d(100%,0,0);visibility:visible}to{transform:translate3d(0,0,0)}}.slideInRight{-webkit-animation-name:slideInRight;animation-name:slideInRight}@-webkit-keyframes slideInUp{from{transform:translate3d(0,100%,0);visibility:visible}to{transform:translate3d(0,0,0)}}@keyframes slideInUp{from{transform:translate3d(0,100%,0);visibility:visible}to{transform:translate3d(0,0,0)}}.slideInUp{-webkit-animation-name:slideInUp;animation-name:slideInUp}@-webkit-keyframes slideOutDown{from{transform:translate3d(0,0,0)}to{visibility:hidden;transform:translate3d(0,100%,0)}}@keyframes slideOutDown{from{transform:translate3d(0,0,0)}to{visibility:hidden;transform:translate3d(0,100%,0)}}.slideOutDown{-webkit-animation-name:slideOutDown;animation-name:slideOutDown}@-webkit-keyframes slideOutLeft{from{transform:translate3d(0,0,0)}to{visibility:hidden;transform:translate3d(-100%,0,0)}}@keyframes slideOutLeft{from{transform:translate3d(0,0,0)}to{visibility:hidden;transform:translate3d(-100%,0,0)}}.slideOutLeft{-webkit-animation-name:slideOutLeft;animation-name:slideOutLeft}@-webkit-keyframes slideOutRight{from{transform:translate3d(0,0,0)}to{visibility:hidden;transform:translate3d(100%,0,0)}}@keyframes slideOutRight{from{transform:translate3d(0,0,0)}to{visibility:hidden;transform:translate3d(100%,0,0)}}.slideOutRight{-webkit-animation-name:slideOutRight;animation-name:slideOutRight}@-webkit-keyframes slideOutUp{from{transform:translate3d(0,0,0)}to{visibility:hidden;transform:translate3d(0,-100%,0)}}@keyframes slideOutUp{from{transform:translate3d(0,0,0)}to{visibility:hidden;transform:translate3d(0,-100%,0)}}.slideOutUp{-webkit-animation-name:slideOutUp;animation-name:slideOutUp}.animated{-webkit-animation-duration:1s;animation-duration:1s;-webkit-animation-fill-mode:both;animation-fill-mode:both}.animated.infinite{-webkit-animation-iteration-count:infinite;animation-iteration-count:infinite}.animated.delay-1s{-webkit-animation-delay:1s;animation-delay:1s}.animated.delay-2s{-webkit-animation-delay:2s;animation-delay:2s}.animated.delay-3s{-webkit-animation-delay:3s;animation-delay:3s}.animated.delay-4s{-webkit-animation-delay:4s;animation-delay:4s}.animated.delay-5s{-webkit-animation-delay:5s;animation-delay:5s}.animated.fast{-webkit-animation-duration:.8s;animation-duration:.8s}.animated.faster{-webkit-animation-duration:.5s;animation-duration:.5s}.animated.slow{-webkit-animation-duration:2s;animation-duration:2s}.animated.slower{-webkit-animation-duration:3s;animation-duration:3s}@media (print),(prefers-reduced-motion:reduce){.animated{-webkit-animation-duration:1ms!important;animation-duration:1ms!important;transition-duration:1ms!important;-webkit-animation-iteration-count:1!important;animation-iteration-count:1!important}}

diff --git a/src/styles.css b/src/styles.css
@@ -2,6 +2,14 @@ body {
   overflow-x: hidden !important;
 }
 
+.city {
+  background-image: url('assets/images/bg/bg.png');
+  background-repeat: no-repeat;
+  background-size: contain;
+  background-position-x: center;
+  background-position-y: bottom;
+}
+
 .bgf-purple {
     background-color: rgb(128, 114, 199);
 }
@@ -16,22 +24,6 @@ body {
 
 .bgf-yellow {
   background-color: rgb(235, 193, 62);
-}
-
-.city {
-    background-image: url('assets/images/bg/bg.png');
-    background-repeat: no-repeat;
-    z-index: -999;
-    padding: 0px;
-    margin: 0px;
-    min-height: 50vh;
-    width: 600px;
-    background-size: contain;
-    background-position-x: center;
-    background-position-y: bottom;
-    position: absolute;
-    bottom: 0px;
-    left: 0px;
 }
 
 .content {

diff --git a/docs/index.html b/docs/index.html
@@ -6,7 +6,7 @@
   <base href="/FriendsLanding/">  <meta name="viewport" content="width=device-width, initial-scale=1">
   <link rel="icon" type="image/x-icon" href="favicon.ico">
   <link rel="stylesheet" href="https://stackpath.bootstrapcdn.com/bootstrap/4.3.1/css/bootstrap.min.css" integrity="sha384-ggOyR0iXCbMQv3Xipma34MD+dH/1fQ784/j6cY/iJTQUOhcWr7x9JvoRxT2MZw1T" crossorigin="anonymous">
-<link rel="stylesheet" href="styles.afff79ae474ce1a909b0.css"></head>
+<link rel="stylesheet" href="styles.73cd79b76adcfca7a7a2.css"></head>
 <body>
   <div class="container-fluid p-0">
     <app-root></app-root>

diff --git a/src/app/app.component.html b/src/app/app.component.html
@@ -1,2 +1,1 @@
 <router-outlet></router-outlet>
-<!-- <app-bg></app-bg> -->
